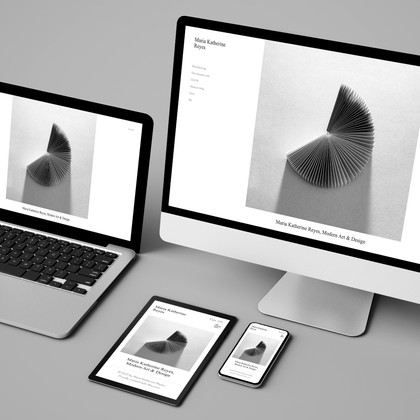
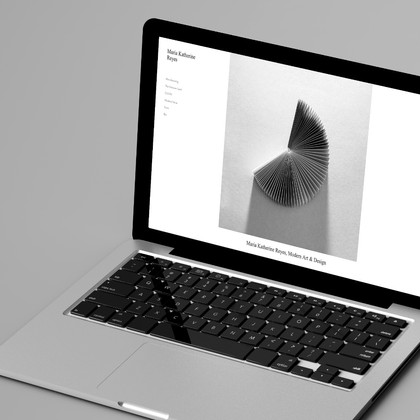
added more features

diff --git a/data-journalism.html b/data-journalism.html
@@ -52,30 +52,30 @@
           </article>
 
           <article class="garden-card">
-            <a class="garden-thumb" href="https://share.inquirer.com/p9Oo9n" target="_blank" rel="noopener">
+            <a class="garden-thumb" href="https://www.inquirer.com/wnba/inq2/philly-wnba-possible-logo-designs-rage-fury-20250808.html" target="_blank" rel="noopener">
               <img src="assets/Pics/proj-wnba.jpg" alt="What should Philadelphia's new WNBA franchise look like?" />
             </a>
             <div class="garden-body">
               <span class="garden-tag">Interactive Journalism</span>
-              <h3><a href="https://share.inquirer.com/p9Oo9n" target="_blank" rel="noopener">What should Philadelphia&rsquo;s new WNBA franchise look like?</a></h3>
+              <h3><a href="https://www.inquirer.com/wnba/inq2/philly-wnba-possible-logo-designs-rage-fury-20250808.html" target="_blank" rel="noopener">What should Philadelphia&rsquo;s new WNBA franchise look like?</a></h3>
               <p>Six Philadelphia local artists imagine the identity and logo of the city&rsquo;s new WNBA team.</p>
             </div>
           </article>
 
           <article class="garden-card">
-            <a class="garden-thumb" href="https://share.inquirer.com/ZEbyZc" target="_blank" rel="noopener">
+            <a class="garden-thumb" href="https://www.inquirer.com/arts/theater/inq2/hamilton-locations-philadelphia-map-history-20250904.html" target="_blank" rel="noopener">
               <img src="assets/Pics/proj-hamilton.jpg" alt="Hamilton doesn't mention Philly once" />
             </a>
             <div class="garden-body">
               <span class="garden-tag">Interactive Journalism</span>
-              <h3><a href="https://share.inquirer.com/ZEbyZc" target="_blank" rel="noopener">Hamilton doesn&rsquo;t mention Philly once. Here&rsquo;s every shot it threw away.</a></h3>
+              <h3><a href="https://www.inquirer.com/arts/theater/inq2/hamilton-locations-philadelphia-map-history-20250904.html" target="_blank" rel="noopener">Hamilton doesn&rsquo;t mention Philly once. Here&rsquo;s every shot it threw away.</a></h3>
               <p>An interactive map-based story exploring Philadelphia&rsquo;s representation in the musical Hamilton.</p>
             </div>
           </article>
 
           <article class="garden-card">
             <a class="garden-thumb" href="https://lfjiang.my.canva.site/sadseattle" target="_blank" rel="noopener">
-              <img src="assets/Pics/proj-seattle.jpg" alt="It's Raining in Seattle" />
+              <img src="assets/Pics/proj-seattle.jpg?v=2" alt="It's Raining in Seattle" />
             </a>
             <div class="garden-body">
               <span class="garden-tag">Data Journalism</span>

diff --git a/index.html b/index.html
@@ -71,13 +71,13 @@
             <a class="area-more" href="data-journalism.html">See more &rarr;</a>
           </div>
           <div class="area">
-            <img class="area-img" src="assets/Pics/cat-design.jpg?v=2" alt="Design &amp; Development" />
+            <img class="area-img" src="assets/Pics/cat-design.jpg?v=3" alt="Design &amp; Development" />
             <h3 class="area-title">Design &amp; Development</h3>
             <p>I design and develop interactive maps, webpages, databases, games and other products for newsrooms and NGOs</p>
             <a class="area-more" href="design-development.html">See more &rarr;</a>
           </div>
           <div class="area">
-            <img class="area-img" src="assets/Pics/cat-multimedia.jpg?v=2" alt="Garden" />
+            <img class="area-img" src="assets/Pics/cat-garden.jpg?v=1" alt="Garden" />
             <h3 class="area-title">Garden</h3>
             <p>My proposals, works-in-progress, and datasets I find interesting. Feel free to use these data or make suggestions</p>
             <a class="area-more" href="garden.html">See more &rarr;</a>

diff --git a/design-development.html b/design-development.html
@@ -74,7 +74,7 @@
 
           <article class="garden-card">
             <a class="garden-thumb" href="https://lfjiang.wixsite.com/portfolio/copy-of-project-12-1" target="_blank" rel="noopener">
-              <img src="assets/Pics/proj-food.jpg" alt="Food Additive Tracker" />
+              <img src="assets/Pics/proj-food.jpg?v=3" alt="Food Additive Tracker" />
             </a>
             <div class="garden-body">
               <span class="garden-tag">Web Development</span>
@@ -91,7 +91,7 @@
               <span class="garden-tag">Web Design &amp; Development</span>
               <h3><a href="https://lfjiang.wixsite.com/portfolio/project-01" target="_blank" rel="noopener">Housework is Valuable</a></h3>
               <p>An investigative project on China&rsquo;s first housework compensation bill, built from field research and data analysis.</p>
-              <span class="award">★ 6th China Data Journalism Competition — Bronze Medal</span>
+              <span class="award">★ 6th China Data Journalism Competition Bronze Medal</span>
             </div>
           </article>
 

diff --git a/css/style.css b/css/style.css
@@ -198,7 +198,7 @@ h1, h2, h3 { font-weight: 400; line-height: 1.05; }
 /* ---------- Generic page head ---------- */
 .page-head { padding: 96px 0 20px; text-align: center; }
 .page-head .eyebrow { display: block; margin-bottom: 22px; }
-.page-head h1 { font-family: var(--display); font-size: clamp(3rem, 8vw, 6rem); letter-spacing: 0.02em; }
+.page-head h1 { font-family: var(--display); font-size: clamp(3rem, 5vw, 6rem); letter-spacing: 0.02em; }
 .page-head .page-sub { font-family: var(--sans); color: var(--muted); letter-spacing: 0.06em; margin-top: 16px; }
 .page-head .lead { font-family: var(--sans); color: var(--muted-dark); max-width: 640px; margin: 22px auto 0; letter-spacing: 0.02em; }
 
